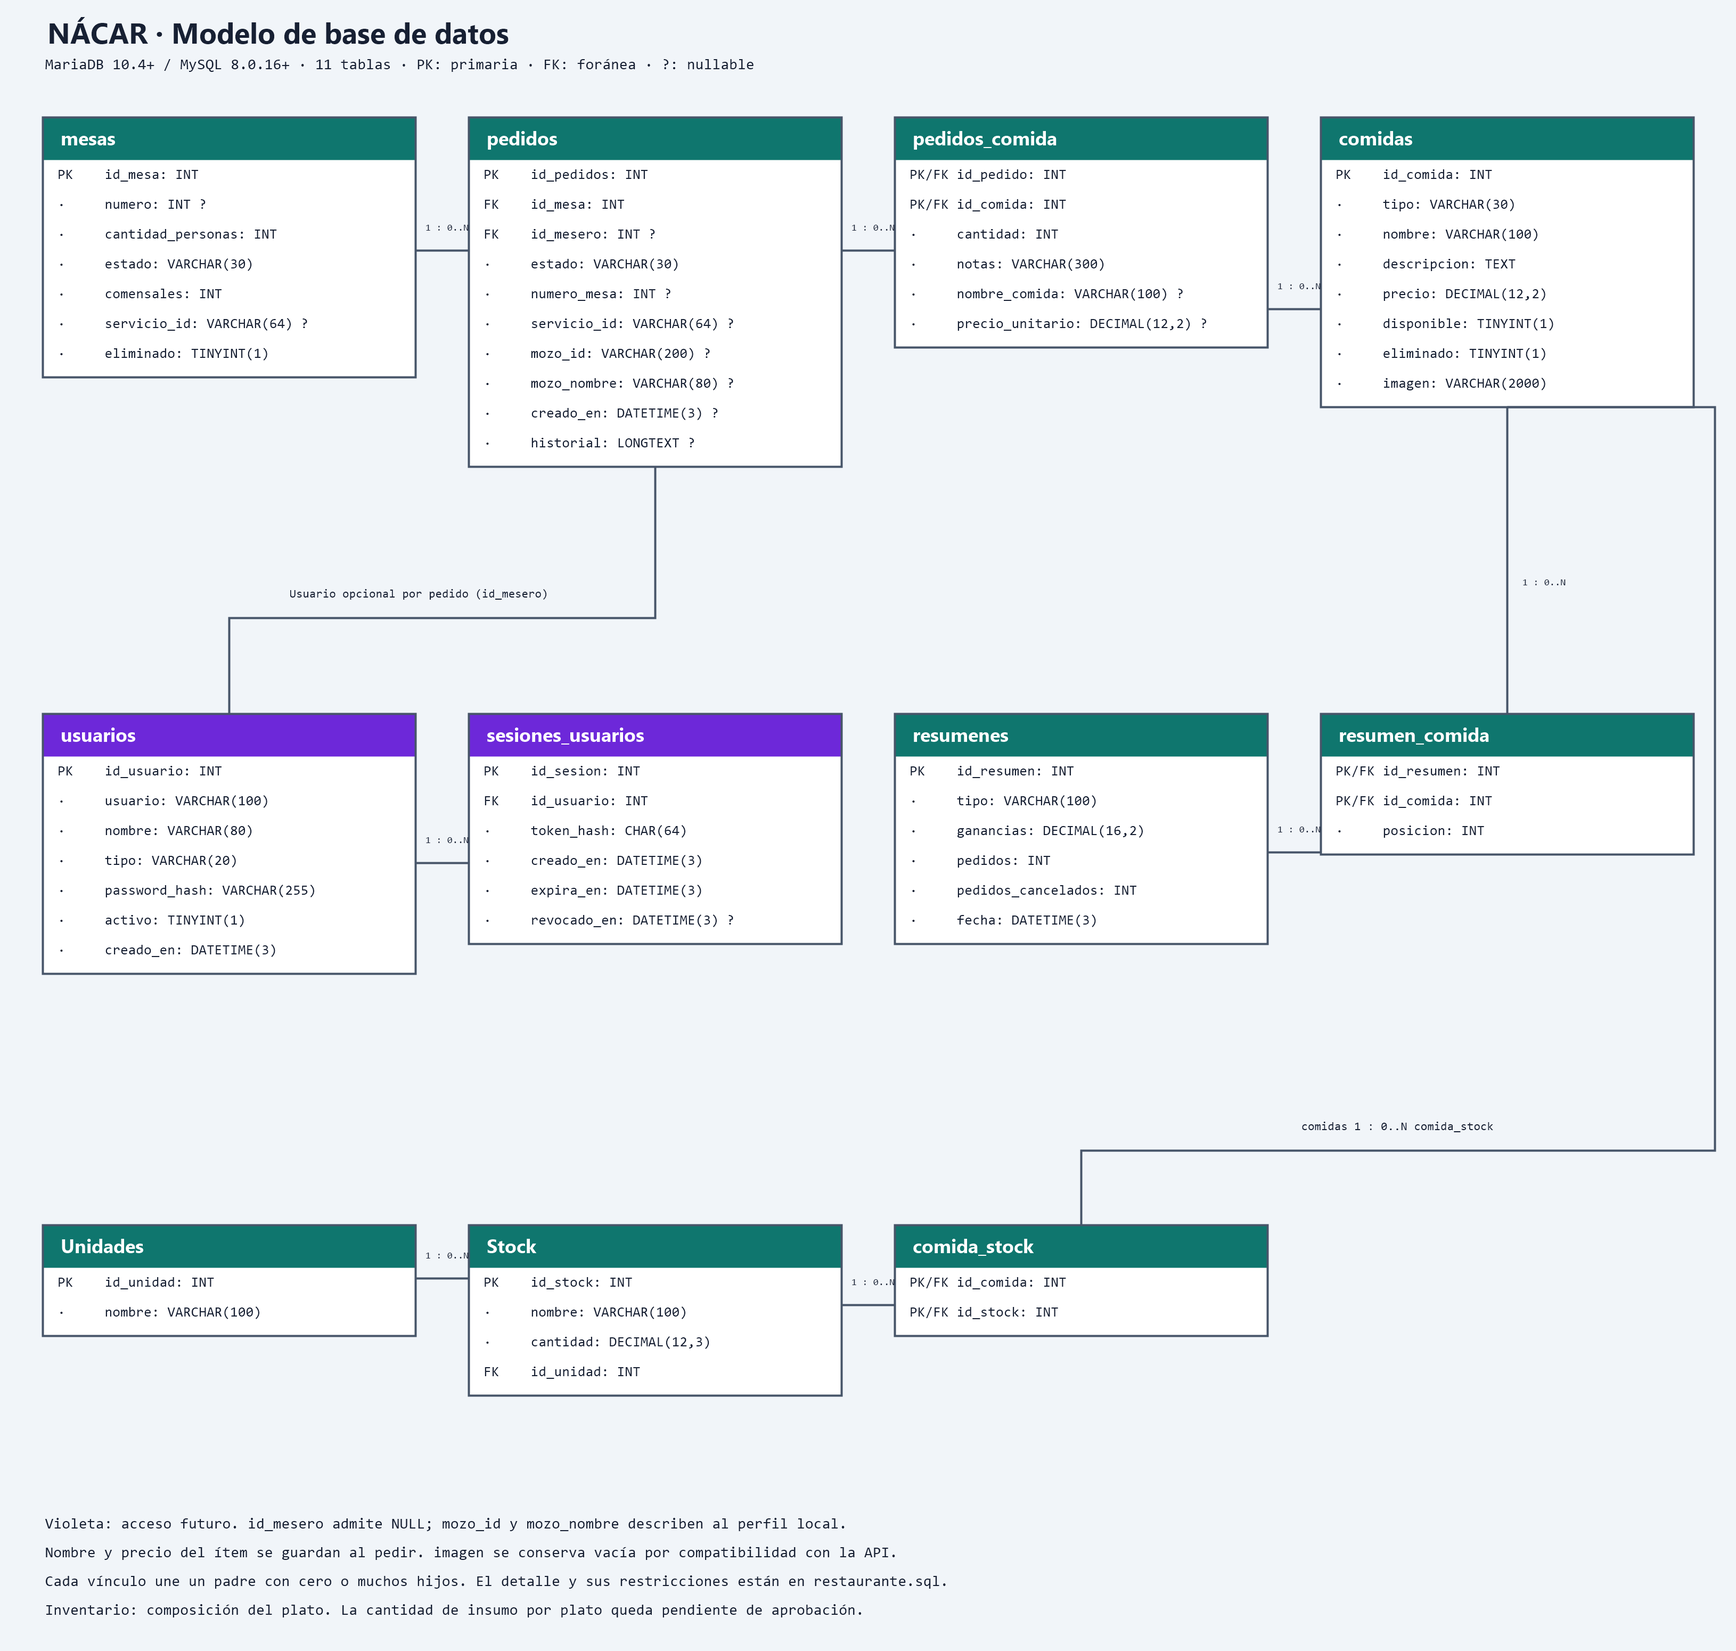
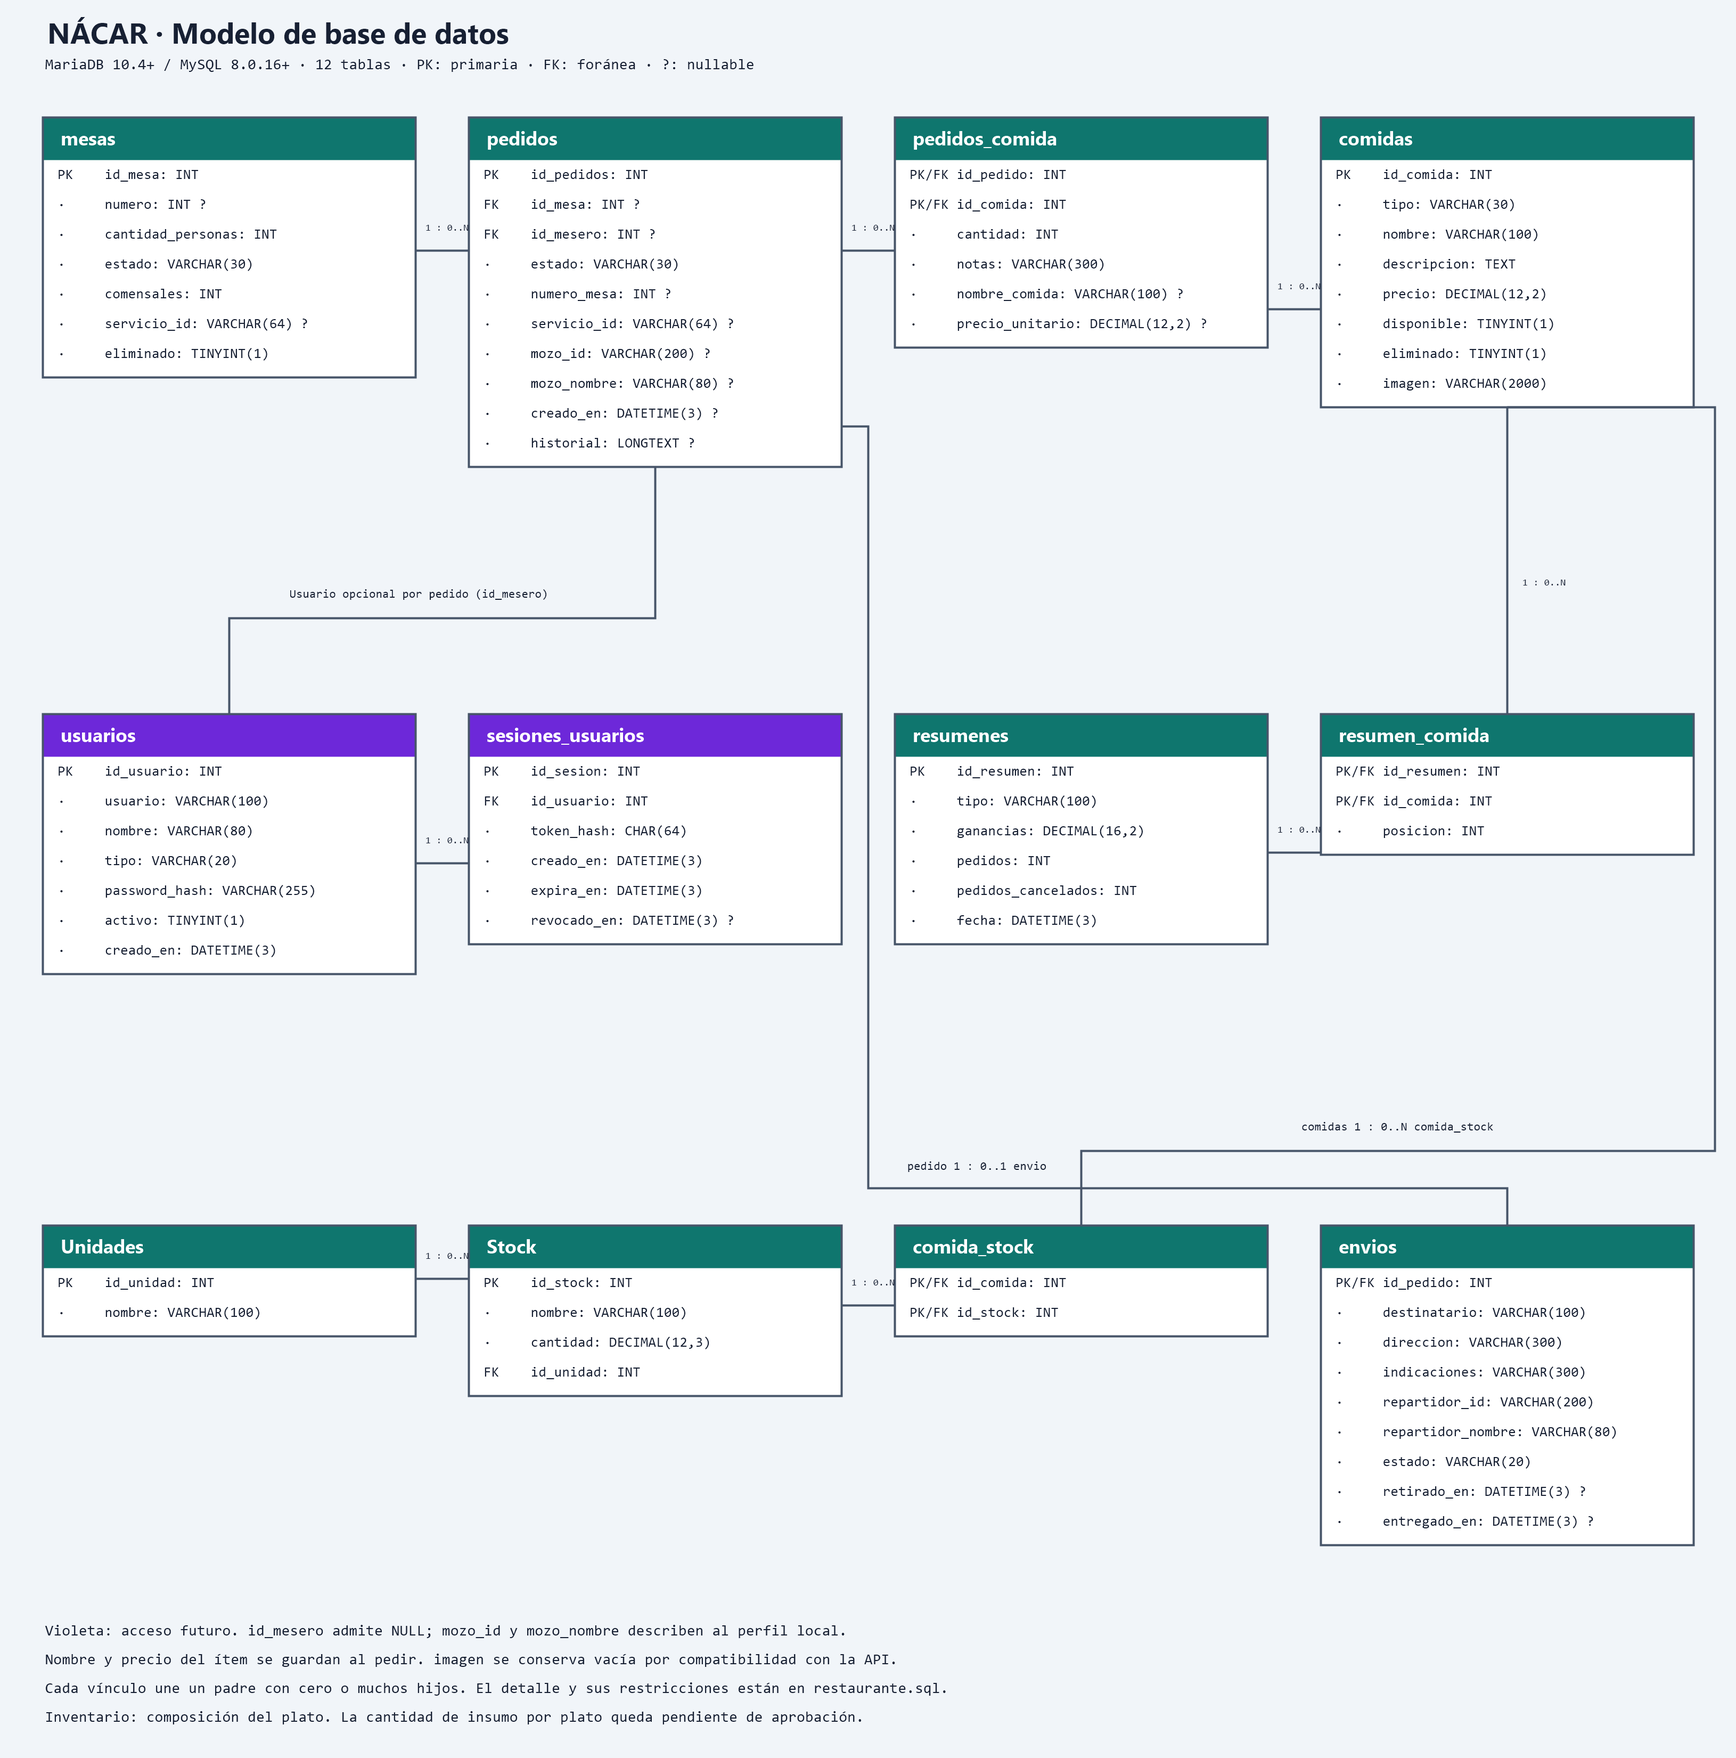
Documentar instalación de reparto y actualizar diagrama SQL

diff --git a/frontend/database/generar-diagrama.py b/frontend/database/generar-diagrama.py
@@ -12,7 +12,7 @@ positions = {
     'pedidos_comida': (840, 110), 'comidas': (1240, 110),
     'usuarios': (40, 670), 'sesiones_usuarios': (440, 670),
     'resumenes': (840, 670), 'resumen_comida': (1240, 670),
-    'Unidades': (40, 1150), 'Stock': (440, 1150), 'comida_stock': (840, 1150),
+    'Unidades': (40, 1150), 'Stock': (440, 1150), 'comida_stock': (840, 1150), 'envios': (1240, 1150),
 }
 tables = {}
 for name, body in re.findall(r'CREATE TABLE (\w+) \((.*?)\n\) ENGINE', sql, re.S):
@@ -31,6 +31,7 @@ for name, body in re.findall(r'CREATE TABLE (\w+) \((.*?)\n\) ENGINE', sql, re.S
 
 # Puntos explícitos: relaciones legibles, sin atravesar las entidades.
 edges = [
+    ('pedidos', 'envios', 'pedido 1 : 0..1 envio', [(790,400),(815,400),(815,1115),(1415,1115),(1415,1150)], (850,1102)),
     ('mesas', 'pedidos', '1 : 0..N', [(390,235),(440,235)], (398,222)),
     ('pedidos', 'pedidos_comida', '1 : 0..N', [(790,235),(840,235)], (798,222)),
     ('comidas', 'pedidos_comida', '1 : 0..N', [(1240,290),(1190,290)], (1198,277)),
@@ -43,11 +44,11 @@ edges = [
     ('comidas', 'comida_stock', 'comidas 1 : 0..N comida_stock', [(1415,382),(1610,382),(1610,1080),(1015,1080),(1015,1150)], (1220,1065)),
 ]
 
-svg = ['<svg xmlns="http://www.w3.org/2000/svg" width="1630" height="1550" viewBox="0 0 1630 1550">',
-       '<rect width="1630" height="1550" fill="#f1f5f9"/>',
+svg = ['<svg xmlns="http://www.w3.org/2000/svg" width="1630" height="1650" viewBox="0 0 1630 1650">',
+       '<rect width="1630" height="1650" fill="#f1f5f9"/>',
        '<style>text{font-family:Consolas,monospace;fill:#172033}.row{font-size:13px}.title{font-family:Segoe UI,sans-serif;font-weight:700}</style>',
        '<text class="title" x="40" y="42" font-size="27">NÁCAR · Modelo de base de datos</text>',
-       '<text x="40" y="72" font-size="14">MariaDB 10.4+ / MySQL 8.0.16+ · 11 tablas · PK: primaria · FK: foránea · ?: nullable</text>']
+       '<text x="40" y="72" font-size="14">MariaDB 10.4+ / MySQL 8.0.16+ · 12 tablas · PK: primaria · FK: foránea · ?: nullable</text>']
 for name, t in tables.items():
     x, y, w, h = (t[k] for k in ('x','y','w','h'))
     color = '#6d28d9' if name in ('usuarios','sesiones_usuarios') else '#0f766e'
@@ -60,15 +61,15 @@ for source, target, label, pts, labelpos in edges:
     points = ' '.join(f'{x},{y}' for x,y in pts)
     svg += [f'<polyline points="{points}" fill="none" stroke="#475569" stroke-width="2"/>',
             f'<text x="{labelpos[0]}" y="{labelpos[1]}" font-size="{9 if label == "1 : 0..N" else 11}">{escape(label)}</text>']
-svg += ['<text x="40" y="1440" font-size="14">Violeta: acceso futuro. id_mesero admite NULL; mozo_id y mozo_nombre describen al perfil local.</text>',
-        '<text x="40" y="1467" font-size="14">Nombre y precio del ítem se guardan al pedir. imagen se conserva vacía por compatibilidad con la API.</text>',
-        '<text x="40" y="1494" font-size="14">Cada vínculo une un padre con cero o muchos hijos. El detalle y sus restricciones están en restaurante.sql.</text>',
-        '<text x="40" y="1521" font-size="14">Inventario: composición del plato. La cantidad de insumo por plato queda pendiente de aprobación.</text>', '</svg>']
+svg += ['<text x="40" y="1540" font-size="14">Violeta: acceso futuro. id_mesero admite NULL; mozo_id y mozo_nombre describen al perfil local.</text>',
+        '<text x="40" y="1567" font-size="14">Nombre y precio del ítem se guardan al pedir. imagen se conserva vacía por compatibilidad con la API.</text>',
+        '<text x="40" y="1594" font-size="14">Cada vínculo une un padre con cero o muchos hijos. El detalle y sus restricciones están en restaurante.sql.</text>',
+        '<text x="40" y="1621" font-size="14">Inventario: composición del plato. La cantidad de insumo por plato queda pendiente de aprobación.</text>', '</svg>']
 (BASE/'diagrama.svg').write_text('\n'.join(svg), encoding='utf-8')
 
 mxfile = ET.Element('mxfile', host='app.diagrams.net')
 diagram = ET.SubElement(mxfile, 'diagram', name='Restaurante', id='restaurante')
-model = ET.SubElement(diagram, 'mxGraphModel', pageWidth='1700', pageHeight='1600', page='1')
+model = ET.SubElement(diagram, 'mxGraphModel', pageWidth='1700', pageHeight='1700', page='1')
 root = ET.SubElement(model, 'root')
 ET.SubElement(root, 'mxCell', id='0')
 ET.SubElement(root, 'mxCell', id='1', parent='0')
@@ -78,7 +79,7 @@ for name,t in tables.items():
     ET.SubElement(cell, 'mxGeometry', x=str(t['x']), y=str(t['y']), width=str(t['w']), height=str(t['h']), attrib={'as':'geometry'})
 for i,(source,target,label,pts,_) in enumerate(edges):
     start_arrow = 'ERzeroToOne' if source == 'usuarios' and target == 'pedidos' else 'ERone'
-    cell = ET.SubElement(root,'mxCell',id=f'rel{i}',value=label,edge='1',parent='1',source=source,target=target,style=f'edgeStyle=orthogonalEdgeStyle;rounded=0;html=1;startArrow={start_arrow};endArrow=ERzeroToMany;fontSize=11;')
+    cell = ET.SubElement(root,'mxCell',id=f'rel{i}',value=label,edge='1',parent='1',source=source,target=target,style=f'edgeStyle=orthogonalEdgeStyle;rounded=0;html=1;startArrow={start_arrow};endArrow={'ERzeroToOne' if target == 'envios' else 'ERzeroToMany'};fontSize=11;')
     geo = ET.SubElement(cell,'mxGeometry',relative='1',attrib={'as':'geometry'})
     array = ET.SubElement(geo,'Array',attrib={'as':'points'})
     for x,y in pts[1:-1]:

diff --git a/frontend/REPARTIDOR.md b/frontend/REPARTIDOR.md
@@ -1,93 +1,71 @@
-# SCRUM-33: vista del repartidor
+# Repartidor conectado a SQL
 
-Entrega de frontend. El repartidor usa el mismo acceso de demostración por rol que
-mozo, chef y administrador. No se agregó una API de acceso, no se modificó el backend
-y no se ejecutaron migraciones ni cambios de base de datos.
+Los envíos se registran desde **Pedidos → Crear envío**, con destinatario, dirección,
+indicaciones, repartidor y platos. Cocina usa los mismos pedidos y estados del salón.
+Reparto consulta sus asignaciones en SQL cada 10 segundos y al pulsar Actualizar.
+No hay ejemplos, demo ni reemplazo por datos ficticios si falla la conexión.
 
-## Probar la pantalla
+## Instalación sobre una base existente
 
-Desde la carpeta del frontend:
+Requiere Node.js 22.16+ o 24 y MySQL/MariaDB en ejecución. En `backend/`:
 
-```sh
+```powershell
+Copy-Item .env.example .env
 npm ci
-npm run dev
+npm run migrate
+npm start
 ```
 
-1. Abrir la dirección que informa Vite.
-2. Elegir **Repartidor** en la pantalla de acceso. Completar usuario y contraseña
-   ficticios; el acceso actual sigue siendo una demostración, sin verificar credenciales.
-3. La ruta `/reparto` muestra un aviso de integración pendiente, sin afirmar que
-   se consultaron entregas reales.
-4. Pulsar **Ver demostración** para cargar cuatro entregas ficticias.
-5. Buscar por pedido, cliente o dirección y filtrar por estado.
-6. Abrir **Ver detalle** para consultar contenido, observaciones e indicaciones.
-7. **Retirar pedido** cambia un ejemplo de Listo para retirar a En camino.
-   **Confirmar entrega** cambia un ejemplo de En camino a Entregado. Ambas acciones
-   requieren confirmación y actualizan los contadores. Cancelar el diálogo no cambia datos.
-8. **Reiniciar demo** restablece los ejemplos y limpia los filtros; **Salir de la demo**
-   vuelve a la pantalla inicial y elimina los cambios de la demostración.
+Editar `.env` con DB_HOST, DB_PORT, DB_USER, DB_PASSWORD y DB_DATABASE de la base
+real **antes de migrar**. Conservar el `.env` existente si ya está configurado.
+La migración completa incluye inventario y reparto; `npm run migrate:reparto` sirve
+si la base ya tiene todas las migraciones anteriores. Las credenciales no se suben.
+No importar `restaurante.sql` encima de una base existente: ese archivo instala
+una base vacía. Configurar VITE_API_ROUTE si la API no usa el proxy local de Vite.
 
-Las entregas de ejemplo viven solo en memoria y se descartan al salir de la vista o
-recargar. No se guardan en localStorage ni se mezclan con los pedidos reales de mesas.
-El rol no puede ejecutar acciones de mesas, menú o cocina mediante el store actual.
-La vista no llama a la API del salón ni abre SSE o consultas periódicas.
+En otra terminal, desde `frontend/`, ejecutar `npm ci` y `npm run dev`.
+Cada integrante debe configurar y migrar su propia base. Descargar código o hacer
+merge en GitHub no ejecuta SQL ni conecta automáticamente las bases de dos equipos.
 
-## Perfiles guardados anteriormente
+## Probar el circuito
 
-Una instalación sin perfiles guardados incluye un perfil Repartidor demo. Si ya hay
-perfiles locales, se conservan exactamente como estaban: no se reemplazan ni se
-agregan usuarios automáticamente. Si el botón Repartidor aparece deshabilitado,
-ingresar como administrador y crear desde **Equipo** un usuario con rol Repartidor.
-No es necesario borrar el almacenamiento del navegador.
+1. Como administrador, tener al menos un plato disponible y un perfil activo con rol
+   Repartidor en Equipo. Se conservan todos los perfiles locales anteriores.
+2. Como mozo o administrador, abrir Pedidos, pulsar Crear envío y completar los datos.
+   Elegir platos y enviar a cocina. El envío queda guardado con `id_mesa = NULL`.
+3. Como chef, pasar ese pedido por En preparación y Listo.
+4. Ingresar con el perfil del repartidor asignado. Consultar el detalle y Retirar pedido.
+5. Confirmar entrega. Al recargar, el envío sigue Entregado y el pedido también.
+6. Un envío se puede cancelar desde Pedidos antes del retiro. Luego no se permite.
+   No se puede retirar antes de que cocina lo marque listo, saltar estados ni cambiar
+   un envío asignado a otro identificador de repartidor.
 
-## Guía para quienes conecten los pedidos de reparto
+## Modelo y operaciones
 
-El contrato de presentación propuesto está en `src/types/delivery.ts`. La composición
-de la pantalla no depende de SQL ni de una respuesta concreta del backend. Hoy los
-pedidos del salón requieren mesa y no incluyen dirección de envío; por eso no se
-convierten pedidos de mesa en envíos ni se inventan direcciones para datos reales.
+`envios.id_pedido` es PK y FK a `pedidos.id_pedidos` (un pedido, cero o un envío).
+La tabla contiene destinatario, dirección, indicaciones, identificador y nombre del
+repartidor, estado, retirado_en y entregado_en. Los platos siguen en pedidos_comida.
+El único cambio en pedidos permite NULL en id_mesa; se conservan los pedidos y FK.
+La migración es repetible y rechaza una tabla envios existente incompatible.
+Las transacciones bloquean pedido y envío, revierten altas inválidas y permiten
+reintentos de retiro/entrega sin duplicar el historial ni cambiar la hora de retiro.
 
-La pantalla necesita estos datos, cuyos nombres de API y tablas debe acordar el equipo:
+- POST /api/envios: registra el pedido y su envío en una sola transacción.
+- POST /api/envios/obtener: consulta por repartidor_id y omite cancelados.
+- PATCH /api/envios/:id/estado: confirma en_camino o entregado.
 
-| Campo de presentación | Contenido                                      |
-| --------------------- | ---------------------------------------------- |
-| `id`                  | Identificador del envío/pedido que corresponda |
-| `customerName`        | Nombre del destinatario                        |
-| `address`             | Dirección de entrega                           |
-| `addressNotes`        | Referencias e indicaciones opcionales          |
-| `items`               | Nombre, cantidad y observaciones de cada plato |
-| `status`              | Estado del reparto según el mapeo acordado     |
+Los perfiles y el acceso siguen siendo los locales del proyecto: el identificador
+asignado se comprueba en SQL, pero todavía no existe autenticación de servidor.
+Para trabajar desde dispositivos distintos, el perfil debe conservar el mismo ID;
+crear dos perfiles con el mismo nombre no los convierte en el mismo usuario.
+El registro y los permisos con sesión de servidor son el próximo incremento.
+Inventario mantiene exactamente sus tres tablas: no se agregó consumo automático,
+ni cantidades por plato. No se implementaron pagos ni geolocalización.
 
-Los estados **propuestos para la demostración** son `listo`, `en_camino` y `entregado`.
-No reemplazan ni amplían el `OrderStatus` existente del salón. El equipo debe confirmar
-la correspondencia con su circuito real, cuándo se asigna un repartidor y qué entregas
-puede consultar. La selección de envíos y los permisos reales deberán comprobarse en
-el servidor cuando se conecte; el acceso local actual no autentica al usuario.
+## Verificación
 
-Para integrar los datos reales, usar las convenciones existentes: solicitudes en
-services, adaptación del contrato al modelo de presentación y estado remoto separado
-de la demostración. Los componentes DeliveryCard y DeliveryDetail reciben sus datos
-por props. Sustituir o extender el hook de entregas al incorporar la fuente acordada;
-la demo debe seguir siendo explícita y nunca actuar como fallback de una API fallida.
-Confirmar cambios con el servidor antes de presentarlos como guardados y manejar
-errores, duplicados y transiciones inválidas.
-
-No se entregan consultas SQL sobre tablas de delivery inexistentes. Esta guía indica
-los datos y operaciones necesarios para que los responsables de backend definan la
-integración sobre su modelo. No se agregó pago, geolocalización ni cancelación de envíos.
-
-## Verificaciones
-
-```sh
-npm run lint
-npm run build
-node --test tests/courier.integration.mjs tests/priority.integration.mjs
-npx prettier --check --end-of-line auto .
-```
-
-La prueba nueva comprueba conservación de perfiles anteriores, creación local de un
-repartidor desde administración, acceso y ruta correctos, rutas iniciales de los otros
-roles y ausencia de llamadas HTTP al actualizar o intentar acciones del salón.
-No requiere iniciar MySQL. La prueba de prioridad existente sigue usando filas
-simuladas. También se verifican visualmente el recorrido de demo, los filtros,
-diálogos, reinicio y adaptación a pantallas pequeñas.
+Desde backend: `npm test` (requiere una base configurada con el esquema instalado).
+Cada escenario SQL usa una base temporal que elimina al terminar. Incluye pedidos
+de mesa, envío completo, cancelaciones, rollback y reintentos concurrentes.
+Desde frontend: `npm run lint`, `npm run build` y
+`node --test tests/courier.integration.mjs tests/priority.integration.mjs`.

diff --git a/frontend/README.md b/frontend/README.md
@@ -1,8 +1,7 @@
 # NÁCAR Restaurante
 
-La vista de repartidor y su demostración opcional se documentan en
-[REPARTIDOR.md](REPARTIDOR.md). Usa el acceso local por rol existente y no requiere
-API nueva de acceso ni modificaciones de base de datos.
+La vista de repartidor está conectada a la API y a SQL. La configuración y el
+circuito completo están en [REPARTIDOR.md](REPARTIDOR.md).
 
 El SQL de instalación y el diagrama actualizado están en [database/README.md](database/README.md).
 La importación se verificó en una base temporal MariaDB. La base local `restaurante`
@@ -113,7 +112,7 @@ Las funciones exportadas tienen nombres explícitos: `obtenerMesas`, `cargarMesa
 3. **Pedidos:** los pedidos pendientes pueden editarse; los precios de sus ítems se
    vuelven a fijar al guardar la edición. Los cambios posteriores de la carta no
    modifican los importes históricos ya guardados.
-4. **Chef:** cambia `pendiente → preparacion → listo`. **Mozo:** confirma `entregado`.
+4. **Chef:** cambia `pendiente → preparacion → listo`. **Mozo:** confirma `entregado` en mesa. En envíos lo confirma el repartidor.
    Mozo o administrador pueden cancelar pedidos activos. Cada cambio guarda actor y fecha.
 5. La mesa se cierra cuando no tiene pedidos activos. Reabrirla inicia otra visita.
    El borrado lógico de mesas y comidas conserva los pedidos y sus referencias.

diff --git a/frontend/database/README.md b/frontend/database/README.md
@@ -1,3 +1,10 @@
+## Actualización de reparto
+
+La instalación nueva incluye 12 tablas. Para una base existente usar la migración
+del backend: agrega `envios` y permite `pedidos.id_mesa = NULL` sin borrar pedidos.
+Ver [configuración y circuito de reparto](../REPARTIDOR.md). El reporte de error 1932
+más abajo corresponde a la revisión anterior; no implica que todas las bases lo tengan.
+
 # Base de datos NÁCAR
 
 `restaurante.sql` instala las once tablas del diagrama, ajustadas al backend actual.
